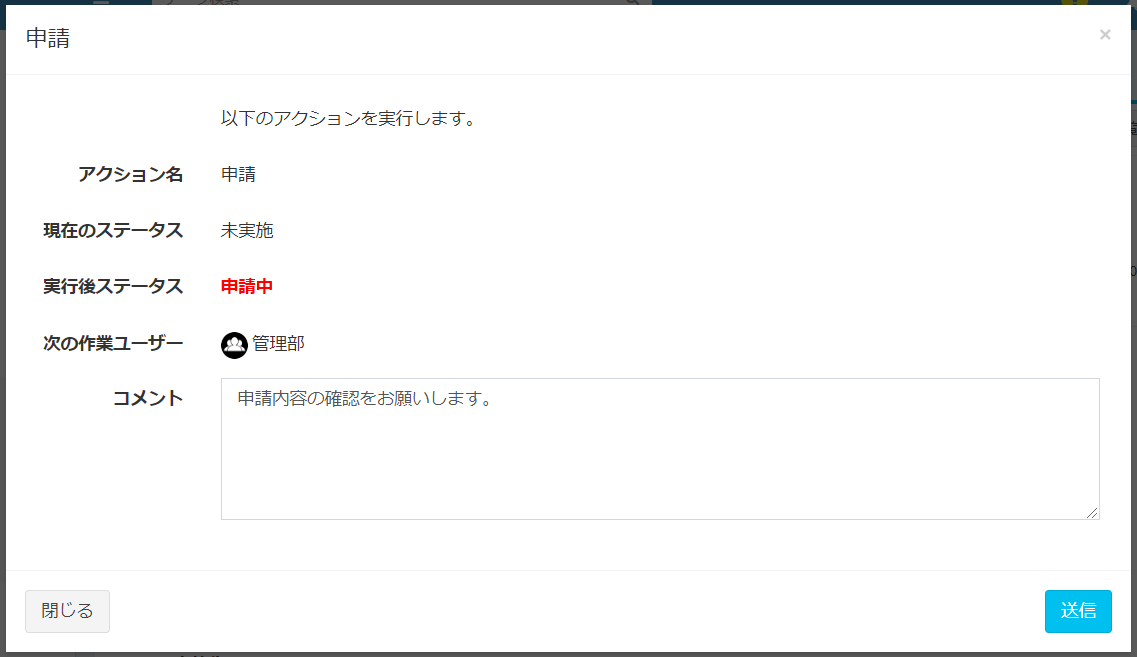
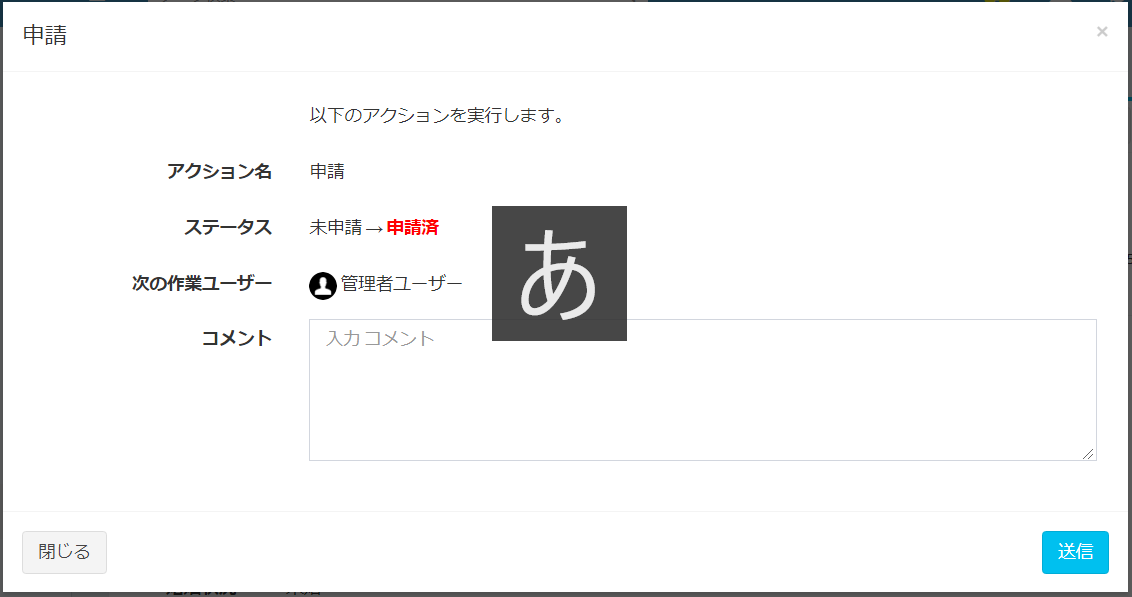
workflow document custom

diff --git a/docs/ja/workflow_setting.md b/docs/ja/workflow_setting.md
@@ -89,27 +89,30 @@ Exmentのワークフローで使用する、用語を説明します。
 ワークフロー種類によって、設定内容が異なります。  
   
 ※ワークフロー種類が「汎用」の場合：  
-![ワークフロー画面](img/workflow/workflow_action1.png)  
-このアクションを実行した後のステータスを設定します。「実行前ステータス」とは別のアクションを選択してください。
+    このアクションを実行した後のステータスを設定します。「実行前ステータス」とは別のアクションを選択してください。
+![ワークフロー画面](img/workflow/workflow_action1.png)
   
 ※ワークフロー種類が「テーブル専用」の場合：  
-TODO:workflow
+アクションを実行する条件と実行後のステータスを設定します。条件とステータスの組合せは最大3つまで設定できます。
+![ワークフロー画面](img/workflow/workflow_action3.png)
 
 - **実行可能ユーザー** : このアクションを実行できるユーザー・組織などを選択します。「変更」ボタンをクリックすることで、設定変更を行います。  
     - ユーザー ： 指定したユーザーが、アクションを実行できます。
     - 組織 ： 指定した組織に所属するユーザーが、アクションを実行できます。
+    - カスタム列 ： 対象データのカスタム列に設定されたユーザーまたは組織が、アクションを実行できます。「テーブル専用」のみの機能です。
     - システム > 作成ユーザー ： カスタムデータを作成したユーザーが、アクションを実行できます。
+![ワークフロー画面](img/workflow/workflow_action4.png)  
 
 
 - **オプション設定 > 次のステータスへ進む条件** : このアクションを実行したときに、次のステータスへ進行するための人数を設定します。  
-※通常は、1人でも実行した場合に、フローが進行するのが基本です。ですが、時には「3人承認した場合のみ、次のステータスへ進む」といった場合もあります。  
+※通常は、1人でも実行した場合に、フローが進行するのが基本です。ですが、時には「3人以上承認した場合のみ、次のステータスへ進む」「管理組織の全ユーザーが承認した場合のみ、次のステータスへ進む」といった場合もあります。  
 その場合に、この設定値を変更してください。
 
 - **オプション設定 > コメント** : 各ユーザーがアクションを実行する場合に、コメントを入力することができます。  
-そのコメント入力を「必須」「任意」「使用しない」の設定を行ってください。
+「必須」「任意」「使用しない」から選択できます。
 
-- **オプション設定 > 通知対象外にする** : チェックすることで、このアクションに設定されている「実行可能ユーザー」は、作業ユーザーに含めません。  
-「却下」「差し戻し」など、前のステータスに戻るアクションや、管理者が特例で承認を行う場合などに、チェックを行ってください。
+- **オプション設定 > 特殊なアクション** : チェックすることで、アクションに設定されている「実行可能ユーザー」を現在の作業ユーザーに含めません。（現在の作業ユーザーとは、現時点のステータスにおいて、なんらかのワークフローアクションが実行可能なユーザーのことです）  
+「却下」「差し戻し」など、前のステータスに戻るアクションや、管理者が特例で承認を行うアクションなどに、チェックを行ってください。
 
 
 
@@ -130,7 +133,7 @@ TODO:workflow
 どのテーブルで、どのワークフローを実行するかどうかを設定します。  
 ![ワークフロー画面](img/workflow/workflow_beginning2.png)  
 
-- 各テーブルごとに表示されるワークフロー一覧には、「汎用」もしくはそのテーブル専用に作ったもので、「設定済」となっているワークフローが表示されます。
+- 各テーブルごとに表示されるワークフローは、「汎用」もしくはそのテーブル専用に作ったもののうち、「設定完了済」となっているワークフローが表示されます。
 
 - ワークフローを使用する場合、「使用する」チェックボックスにチェックを行ってください。  
 

diff --git a/docs/ja/data_workflow.md b/docs/ja/data_workflow.md
@@ -12,16 +12,15 @@
 ![ワークフロー画面](img/workflow/workflow_data2.png)  
 
 
-- また、ログインユーザーが次のアクションを行う権限のある場合、アクションのボタンがページ右上に表示されます。  
+- ログインユーザーに次のアクションを行う権限がある場合、アクションボタンがページ右上に表示されます。  
 ![ワークフロー画面](img/workflow/workflow_data1.png)  
 
 
-- ボタンをクリックすることで、アクションの内容がダイアログで表示されます。  
+- ボタンをクリックすることで、アクションの実行確認ダイアログが表示されます。  
 ![ワークフロー画面](img/workflow/workflow_data3.png)  
 
    - アクション名：今回実行するアクションの名称が表示されます。
-   - 現在のステータス：このアクションを実行する前のステータスが表示されます。
-   - 実行後ステータス：このアクションを実行することによる、実行後のステータスが表示されます。
+   - ステータス：このアクションを実行する前後のステータスが表示されます。
    - 次の作業ユーザー：このアクション実行後の、作業ユーザー・組織が表示されます。
    - コメント：アクション実施時のコメントを入力してください。
 
